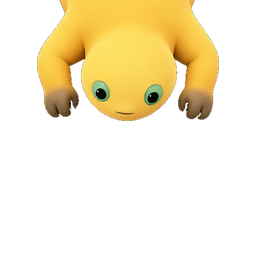
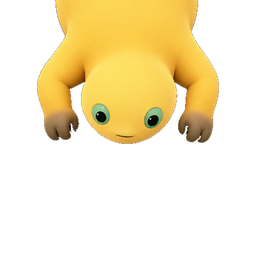
fix: 顶边的浮动从 33px 压到 ±6px，看着不再像引体向上
模型把「往下探时头浮动 4%」理解成了往上 29px，挂在屏幕边上太夸张。

没有重画，改的是合成阶段的裁剪量：从顶部裁掉多少背，本来就等于
「屏幕边缘挡住了多少」——蛙缩上去时被挡住的更多，所以逐帧裁不同
的量在物理上成立，不是后期拉扯。PEEK_BOB = ±6，可见高变成
150 / 144 / 156，比原来的 121 / 150 / 154 收敛得多，且左右对称
（原来往上 29、往下只有 4）。

嫌轻嫌重改 PEEK_BOB 一个数就行，不用动美术。

Changed region(s): [[0.125, 0.0, 0.875, 0.5625]]

diff --git a/make_pet_edges.py b/make_pet_edges.py
@@ -49,6 +49,11 @@ FROG_H = 224          # 摆位后蛙的高度：与站立帧 208 接近，吸附
 PEEK_W = 187
 PEEK_MAX_H = 150
 
+# 顶边上下浮动的幅度（像素，加在可见高度上）。模型自己画的幅度是往上
+# 29px、往下 4px，挂在屏幕边上像在做引体向上。这里不靠重画，靠逐帧不同
+# 的裁剪量压到 ±6：蛙缩上去时被屏幕挡住的背本来就更多。
+PEEK_BOB = {"base": 0, "in": -6, "out": 6, "blink": 0}
+
 DIRS = ("n", "ne", "e", "se", "s", "sw", "w", "nw")
 
 # 吸附态的呼吸循环。播放顺序 base → in → base → out，眨眼帧 base→blink→base
@@ -223,6 +228,18 @@ def place(frog: Image.Image, cut: str, ratio: float, valign: str | None) -> Imag
     return canvas
 
 
+def _trim_top(im: Image.Image, target_h: int) -> Image.Image:
+    """从顶部裁掉多余的背，让可见高度正好等于 target_h。
+
+    裁掉的那段是「要被屏幕边缘挡住的背」，所以裁多裁少都不影响切口——
+    切口永远在画布上边。逐帧裁剪量不同，才造得出上下浮动。
+    """
+    trim = im.height - target_h
+    if trim <= 0:
+        return im
+    return im.crop((0, trim, im.width, im.height))
+
+
 def place_peek(frog: Image.Image) -> Image.Image:
     """顶边专用：蛙趴在边缘上往下探，身子在屏幕外。
 
@@ -288,14 +305,15 @@ def build() -> None:
     peek_src = _frames(SRC_PEEK) if SRC_PEEK.is_dir() else {}
     if "base" in peek_src:
         peek = _scale(peek_src, w=PEEK_W)
-        # 背画得太长，从顶上裁固定的一段：**每帧裁一样多**，头到切口的
-        # 距离才不会被抹平（那就是呼吸的可视部分）
-        trim = peek["base"].height - PEEK_MAX_H
-        if trim > 0:
-            peek = {p: im.crop((0, trim, im.width, im.height))
-                    for p, im in peek.items()}
+        # 背画得太长，从顶上裁一段。裁多少就是「屏幕边缘挡住了多少背」——
+        # 蛙往上缩的时候被挡住的本来就更多，所以逐帧的裁剪量不同是物理
+        # 正确的，不是后期拉扯。生成时模型给的浮动量没法精确控制（要 4%
+        # 它给 20%），这里把它压到 PEEK_BOB 像素。
+        peek = {p: _trim_top(im, PEEK_MAX_H + PEEK_BOB.get(p, 0))
+                for p, im in peek.items()}
         pb = peek["base"]
-        print(f"顶边姿态 = {pb.width}x{pb.height}  相位 {'/'.join(sorted(peek))}")
+        print(f"顶边姿态 = {pb.width}x{pb.height}  相位 {'/'.join(sorted(peek))}"
+              f"  浮动 {PEEK_BOB['in']}~{PEEK_BOB['out']}px")
     else:
         print(f"顶边姿态 = 缺省，edge-n 退回对半切（放一张进 {SRC_PEEK} 可换掉）")
 

diff --git a/assets/naiwa/edges/SPEC.md b/assets/naiwa/edges/SPEC.md
@@ -34,8 +34,8 @@ edge-{dir}-{phase}.png        # 8 × 4 = 32 个，同一个目录
 | 相位 | 内容 | 相对 base |
 | --- | --- | --- |
 | `base` | 中性，睁眼 | — |
-| `in` | 吸气（顶边是往上收） | 侧姿态躯干胀 3–4 px；顶边头抬高 29 px |
-| `out` | 呼气（顶边是往下垂） | 侧姿态躯干收 5–8 px；顶边头落 4 px |
+| `in` | 吸气（顶边是往上收） | 侧姿态躯干胀 3–4 px；顶边可见高 150 → 144 |
+| `out` | 呼气（顶边是往下垂） | 侧姿态躯干收 5–8 px；顶边可见高 150 → 156 |
 | `blink` | 眨眼，其余同 base | 只有眼睛变 |
 
 呼吸循环 4 步，`base` 用两次：
@@ -116,7 +116,9 @@ python make_pet_edges.py --anim      # 胶片条 + GIF（验证动画用）
 
 **提示词必须写清「看到的是背」。** 第一版只说了「往下探」，模型把头朝下之后顺手把奶白肚皮也画到了画面正中——从上后方看蛙，肚皮压在边缘上根本不该出现，这是视角前后矛盾。加上「必须看到背、纯黄、不许出现奶白肚皮」才干净。
 
-**顶边的呼吸是「头上下浮」，幅度比其他方向大。** 挂着的姿态动的是头（33 px），侧姿态动的是胸（8 px）。第一版顶边只让模型「躯干胀一点」，结果四帧包围盒一模一样，播起来是张静止图——飘着的蛙要动的是垂挂长度，不是胸围。
+**顶边的呼吸是「头上下浮」，不是「躯干胀」。** 挂着的姿态动的是头，侧姿态动的是胸。第一版只让模型「躯干胀一点」，结果四帧包围盒一模一样（150×177 全等），播起来还是张静止图——要做的是垂挂长度。
+
+**浮动多大由合成阶段定，不靠重新生成。** 模型把「4%」理解成了往上 29 px，挂在屏幕边上像在做引体向上；再画一次照样不可控。而这里的裁剪量恰好等于「屏幕边缘挡住了多少背」——蛙缩上去时被挡住的本来就更多，所以逐帧裁不同的量在物理上成立，不是后期拉扯。`PEEK_BOB` 现在给 ±6 px（可见高 150 / 144 / 156），嫌轻嫌重改这一个数就够了，不用动美术。
 
 **四角只切 45%，不是 50%。** 头在角色最上方，任何水平切口都会把头切掉，所以四角的遮挡全部交给竖边，垂直方向靠贴角（顶到画布边）来体现「在角落里」。代价是角的遮挡感比四边弱一档，45% 是「看得出被挡」和「保住脸」之间的平衡点。
 
